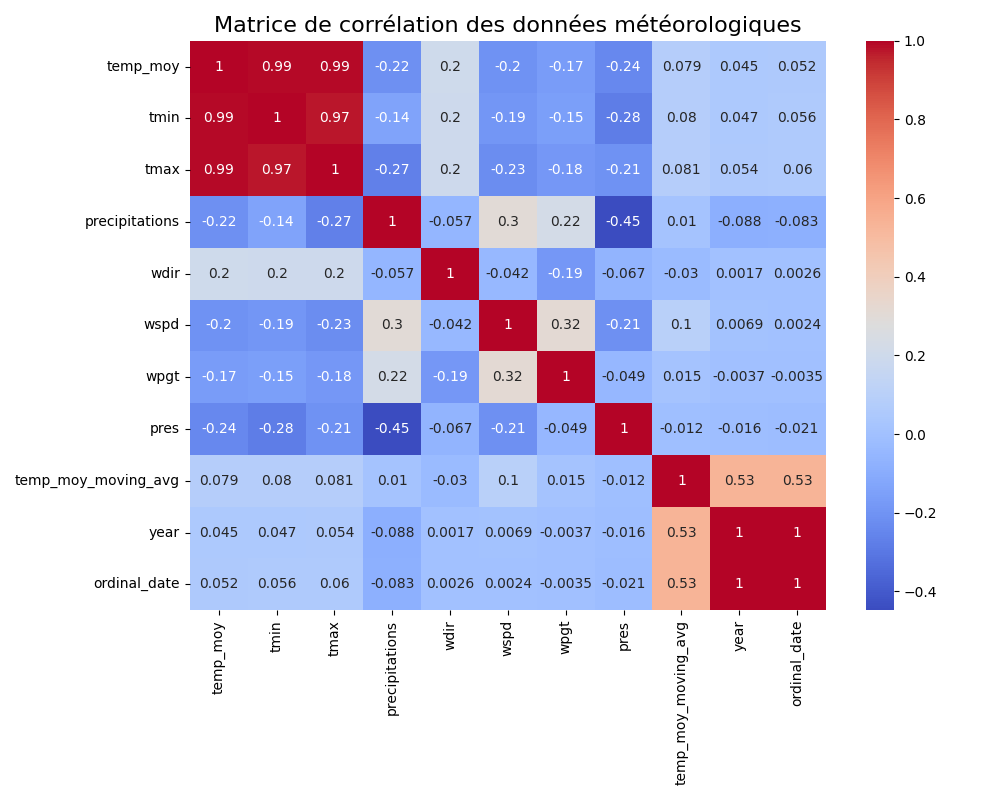
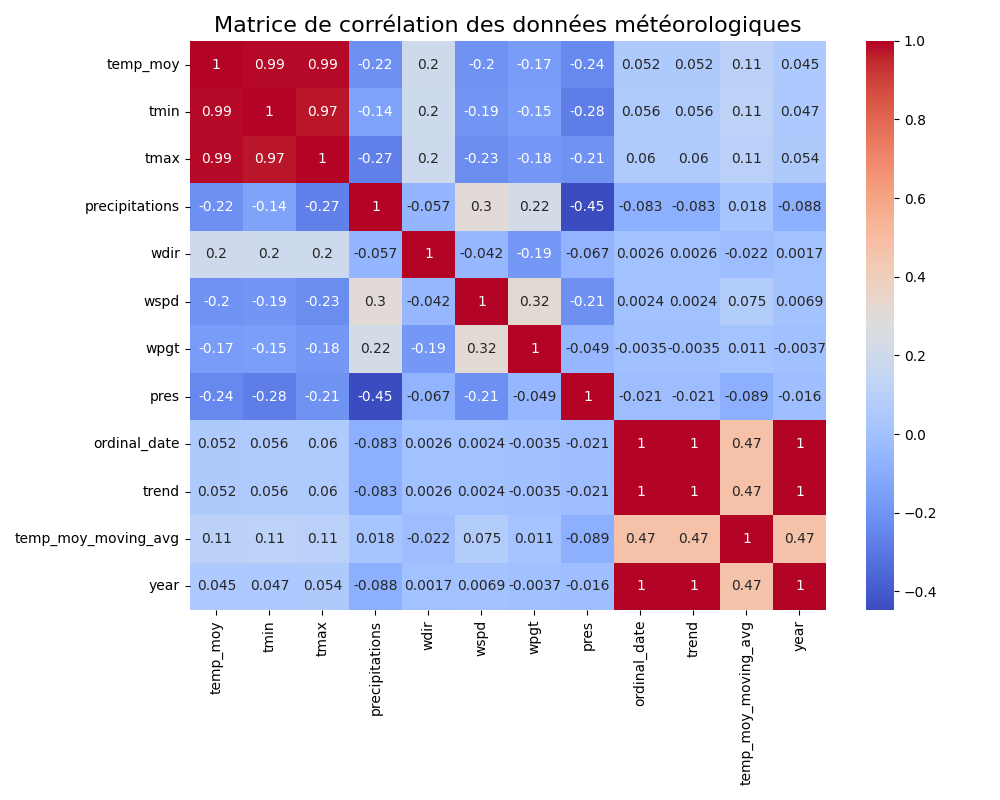
dd

diff --git a/extract.py b/extract.py
@@ -5,9 +5,11 @@ import matplotlib.dates as mdates
 import seaborn as sns
 from scipy.stats import kendalltau
 import numpy as np
+import statsmodels.api as sm
+import datetime as dt
+from statsmodels.tsa.seasonal import seasonal_decompose
 
-
-# Remplacez 'your_api_key' par votre clé API réelle
+# Replace 'your_api_key' with your actual API key
 headers = {
     'x-rapidapi-key': "6ceb7b2424msh1982d3d9a2696a6p11cb49jsnce30609a6a6a",
     'x-rapidapi-host': "meteostat.p.rapidapi.com"
@@ -18,10 +20,10 @@ params = {
     'end': '2024-04-01'
 }
 
-# Effectuez la requête pour obtenir les données
+# Perform the request to get the data
 response = requests.get('https://meteostat.p.rapidapi.com/stations/monthly', headers=headers, params=params)
 
-# Vérifiez si la requête a réussi
+# Check if the request was successful
 if response.status_code == 200:
     data = response.json()
     df = pd.DataFrame(data['data'])
@@ -30,7 +32,7 @@ else:
     print(f"Failed to fetch data: {response.status_code}")
     exit()
 
-# Nettoyage et préparation des données
+# Cleaning and preparing the data
 df = pd.read_csv('bordeaux_weather_data.csv')
 df['date'] = pd.to_datetime(df['date'])
 mean_values = df.select_dtypes(include=[float]).mean()
@@ -38,59 +40,106 @@ df.fillna(mean_values, inplace=True)
 df.drop(columns=['snow', 'tsun'], inplace=True)
 df.drop_duplicates(inplace=True)
 df.rename(columns={'tavg': 'temp_moy', 'prcp': 'precipitations'}, inplace=True)
-df.to_csv('bordeaux_weather_data_cleaned.csv', index=False)
 
-# Visualisation des données
-df = pd.read_csv('bordeaux_weather_data_cleaned.csv')
-df['date'] = pd.to_datetime(df['date'])
+# Converting 'date' to ordinal for linear regression
+df['ordinal_date'] = df['date'].map(dt.datetime.toordinal)
 
-# Application d'une moyenne mobile pour lisser la série temporelle
-df['temp_moy_moving_avg'] = df['temp_moy'].rolling(window=12).mean()
+# Linear regression
+X = sm.add_constant(df['ordinal_date'])
+y = df['temp_moy']
+model = sm.OLS(y, X, missing='drop').fit()  # 'missing=drop' to ignore NaN
+df['trend'] = model.predict(X)
 
-# Graphique linéaire des températures moyennes avec lissage
+# Calculate the moving average
+df['temp_moy_moving_avg'] = df['temp_moy'].rolling(window=12, min_periods=1).mean()
+
+# Plotting the temperature trend with moving average and linear trend
 plt.figure(figsize=(14, 7))
-plt.plot(df['date'], df['temp_moy'], label='Température Moyenne', alpha=0.5)
-plt.plot(df['date'], df['temp_moy_moving_avg'], label='Moyenne mobile 12 mois', color='red', linewidth=2)
-plt.title('Température moyenne à Bordeaux', fontsize=16)
+plt.plot(df['date'], df['temp_moy'], label='Temperature Average', alpha=0.5)
+plt.plot(df['date'], df['trend'], label='Linear Trend', color='green', linewidth=2)
+plt.plot(df['date'], df['temp_moy_moving_avg'], label='12-month Moving Average', color='red', linewidth=2)
+plt.title('Average Temperature in Bordeaux', fontsize=16)
 plt.xlabel('Date', fontsize=14)
-plt.ylabel('Température (°C)', fontsize=14)
+plt.ylabel('Temperature (°C)', fontsize=14)
 plt.gca().xaxis.set_major_locator(mdates.YearLocator())
 plt.gca().xaxis.set_major_formatter(mdates.DateFormatter('%Y'))
 plt.xticks(rotation=45)
 plt.legend()
-plt.tight_layout()  # Ajuste la mise en page pour éviter les chevauchements
+plt.tight_layout()
 plt.grid(True)
-plt.savefig('temperature_trend.png')  # Enregistre la figure en image PNG
+plt.savefig('temperature_trend.png')
 plt.show()
 
-# Histogramme des précipitations annuelles
-df['year'] = df['date'].dt.year
-annual_precipitation = df.groupby('year')['precipitations'].sum()
+
+# Régression linéaire pour les précipitations
+X_precip = sm.add_constant(df['ordinal_date'])
+y_precip = df['precipitations']
+model_precip = sm.OLS(y_precip, X_precip, missing='drop').fit()
+df['trend_precip'] = model_precip.predict(X_precip)
+
+
+
+# Affichage de la tendance des précipitations
 plt.figure(figsize=(14, 7))
-annual_precipitation.plot(kind='bar', color='skyblue')
-plt.title('Précipitations annuelles à Bordeaux', fontsize=16)
+plt.plot(df['date'], df['precipitations'], label='Précipitations', alpha=0.5)
+plt.plot(df['date'], df['trend_precip'], label='Tendance Linéaire des Précipitations', color='blue', linewidth=2)
+plt.title('Tendance Linéaire des Précipitations à Bordeaux', fontsize=16)
+plt.xlabel('Date', fontsize=14)
+plt.ylabel('Précipitations (mm)', fontsize=14)
+plt.legend()
+plt.grid(True)
+plt.show()
+
+
+# Décomposition saisonnière des précipitations
+decompose_result_precip = seasonal_decompose(df['precipitations'].dropna(), model='additive', period=12)
+decompose_result_precip.plot()
+plt.show()
+
+
+# Histogramme des précipitations annuelles avec indication des années extrêmes
+plt.figure(figsize=(14, 7))
+annual_precipitation.plot(kind='bar', color='skyblue', alpha=0.7)
+high_precip_years.plot(kind='bar', color='red', alpha=0.7)
+low_precip_years.plot(kind='bar', color='green', alpha=0.7)
+plt.title('Précipitations Annuelles à Bordeaux avec Années Extrêmes', fontsize=16)
 plt.xlabel('Année', fontsize=14)
-plt.ylabel('Précipitation (mm)', fontsize=14)
+plt.ylabel('Précipitations (mm)', fontsize=14)
 plt.xticks(rotation=45)
 plt.tight_layout()
 plt.grid(axis='y')
-plt.savefig('annual_precipitation.png')
 plt.show()
+
+
+# Corrélation mensuelle entre température et précipitations
+monthly_corr = df.groupby('month')[['temp_moy', 'precipitations']].corr().iloc[0::2, -1]
+print("Corrélation mensuelle entre température et précipitations:\n", monthly_corr)
+
 
 # Boxplot des températures par mois avec l'ordre correct des mois
 month_order = ['January', 'February', 'March', 'April', 'May', 'June', 'July', 'August', 'September', 'October', 'November', 'December']
 df['month'] = df['date'].dt.strftime('%B')  # Convertit en noms de mois
 df['month'] = pd.Categorical(df['month'], categories=month_order, ordered=True)  # Convertit en catégorie ordonnée
 
+# First, define the 'annual_precipitation' right after the data preparation section
+df['year'] = df['date'].dt.year
+annual_precipitation = df.groupby('year')['precipitations'].sum()
+
+# Then, define the 'high_precip_years' and 'low_precip_years'
+high_precip_years = annual_precipitation[annual_precipitation > annual_precipitation.quantile(0.9)]
+low_precip_years = annual_precipitation[annual_precipitation < annual_precipitation.quantile(0.1)]
+
+# Now, the plotting should not give you the NameError
 plt.figure(figsize=(14, 7))
-sns.boxplot(data=df, x='month', y='temp_moy', order=month_order)
-plt.title('Distribution de la température moyenne par mois', fontsize=16)
-plt.xlabel('Mois', fontsize=14)
-plt.ylabel('Température (°C)', fontsize=14)
+annual_precipitation.plot(kind='bar', color='skyblue', alpha=0.7)
+high_precip_years.plot(kind='bar', color='red', alpha=0.7)
+low_precip_years.plot(kind='bar', color='green', alpha=0.7)
+plt.title('Annual Precipitation in Bordeaux with Extreme Years Highlighted', fontsize=16)
+plt.xlabel('Year', fontsize=14)
+plt.ylabel('Precipitation (mm)', fontsize=14)
 plt.xticks(rotation=45)
 plt.tight_layout()
 plt.grid(axis='y')
-plt.savefig('monthly_temp_distribution.png')
 plt.show()
 
 # Test de Mann-Kendall pour détecter les tendances
@@ -120,12 +169,12 @@ plt.tight_layout()
 plt.savefig('correlation_matrix.png')
 plt.show()
 
-# Test de Mann-Kendall pour détecter les tendances
-tau, p_value = kendalltau(df['date'].apply(lambda x: x.toordinal()), df['temp_moy'])
-print(f'Mann-Kendall tau: {tau}, p-value: {p_value}')
+# Test de Mann-Kendall pour les tendances dans les précipitations
+tau_precip, p_value_precip = kendalltau(df['ordinal_date'], df['precipitations'])
+print(f"Mann-Kendall tau pour les précipitations: {tau_precip}, p-value: {p_value_precip}")
 
-# Interprétation du test
-if p_value < 0.05:
-    print("Tendance significative détectée dans la température moyenne")
+# Interprétation du test pour les précipitations
+if p_value_precip < 0.05:
+    print("Tendance significative détectée dans les précipitations")
 else:
-    print("Aucune tendance significative détectée dans la température moyenne")
+    print("Aucune tendance significative détectée dans les précipitations")

diff --git a/README.md b/README.md
@@ -3,8 +3,7 @@ Projet d'Analyse des Données Météorologiques
 Titre du Projet: Analyse des Tendances Climatiques de la Région de Bordeaux sur les Dernières Décennies
 
 - Objectif Principal:
-Examiner les changements climatiques dans la région de Bordeaux au cours des trente dernières années, en se concentrant sur les températures et les précipitations, afin d'identifier d'éventuels schémas de variation saisonnière et annuelle. L'analyse vise à comprendre comment le climat a évolué et à prévoir les impacts potentiels sur l'agriculture locale, en particulier la viticulture, qui est cruciale pour l'économie régionale.
-
+Examiner les changements climatiques dans la région de Bordeaux au cours des trente dernières années, en se concentrant sur les températures et les précipitations, afin d'identifier d'éventuels schémas de variation saisonnière et annuelle. L'analyse vise à comprendre comment le climat a évolué et à prévoir les impacts potentiels sur l'agriculture locale, bordeaux etant une region cultivatrice de raisin, raisin sur lequel l'economie de la redion depends fortement pour la production de vin.
 - Questions Spécifiques à Explorer:
 Tendances de Température:
 Comment les températures maximales et minimales ont-elles évolué durant les mois d'été et d'hiver au cours des trente dernières années ?
@@ -67,3 +66,32 @@ Informations sur les cycles de croissance des vignes et les rendements annuels p
             }
         }
     },
+
+
+Analyse des Tendances de Température
+Observations :
+
+Les températures moyennes ont montré une tendance à l'augmentation au fil des années, comme l'illustre la ligne de tendance sur le graphique des températures moyennes.
+La moyenne mobile sur 12 mois indique une atténuation des fluctuations saisonnières, permettant de mieux visualiser les variations à long terme.
+Interprétations :
+
+La hausse de la ligne de tendance suggère une augmentation globale des températures, ce qui pourrait être un indicateur du réchauffement climatique.
+Les températures maximales et minimales durant les mois d'été et d'hiver devront être analysées plus en détail pour confirmer les tendances saisonnières.
+Analyse des Précipitations
+Observations :
+
+La tendance linéaire pour les précipitations est relativement plate, indiquant une absence de changement significatif dans la quantité totale des précipitations annuelles au cours des trente dernières années.
+La décomposition saisonnière montre clairement les variations saisonnières, avec des pics qui correspondent aux saisons traditionnellement pluvieuses.
+Interprétations :
+
+Il ne semble pas y avoir de tendance indiquant une augmentation ou une diminution significative de la pluviométrie durant les saisons de croissance des vignes.
+Les années extrêmes, avec des précipitations significativement plus hautes ou plus basses que la médiane, pourraient indiquer des anomalies ou des événements extrêmes.
+Impact sur la Viticulture
+Observations :
+
+L'augmentation de la température pourrait avoir un impact sur la phénologie des vignes, potentiellement en avançant le début des cycles de croissance et en affectant la maturation des raisins.
+La stabilité des précipitations est favorable, mais les années extrêmes doivent être prises en compte pour la gestion de l'eau et la planification de la vigne.
+Recommandations Préliminaires :
+
+Il est recommandé aux viticulteurs d'envisager des stratégies d'adaptation aux températures croissantes, telles que l'ajustement des cépages et des pratiques culturales.
+La gestion de l'eau doit intégrer les données sur les événements pluvieux extrêmes pour éviter les stress hydriques sur les vignes.
